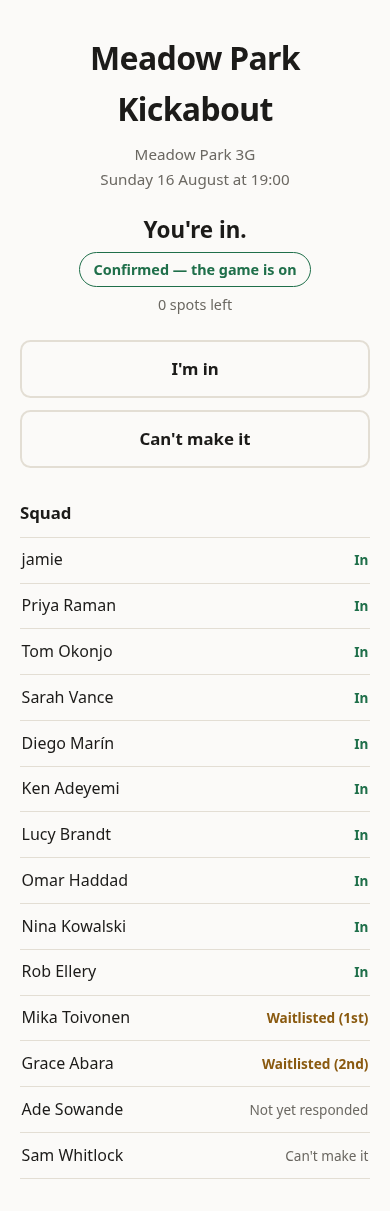
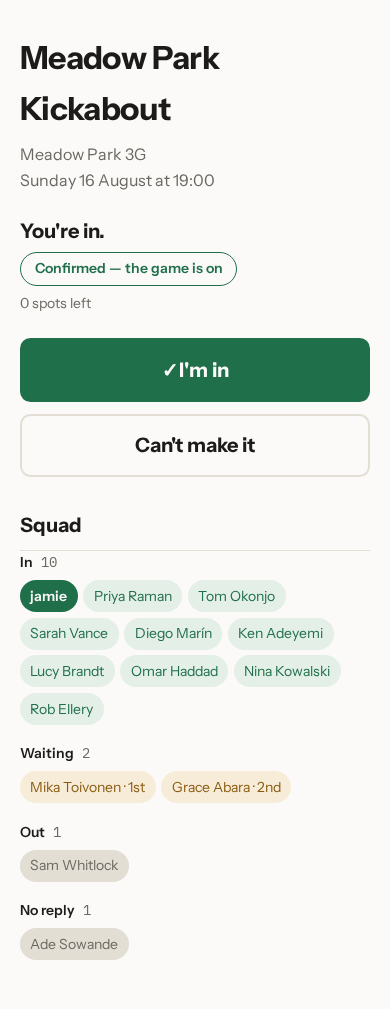
docs: re-align the guide with the M10 redesign, regenerate screenshots
The Google Fonts disclosure in docs/known-issues.md was already added by
Task 2 (confirmed accurate against src/security/csp.ts, no change needed).

Guide prose sweep for M10's nine tasks:
- Task 9 moved role/removal behind a per-member "Manage" disclosure on the
  game overview page — updated the "Who can organise" and "Taking someone
  out" sections and the squad-controls alt text in 05-running-your-squad.md.
- Task 6 replaced "Mark in"/"Mark out" with a segmented In/Out control on the
  organiser's fixture page, and dropped the separate status text except for
  waitlisted members — updated the "One fixture at a time" and "Answering for
  someone" sections and the owner-fixture alt text.
- Task 7 grouped the player-facing squad into chips by answer, with the
  viewer's own chip highlighted — rewrote "Who else is playing" and the
  waitlist description in 03-answering-a-reminder.md.
- Task 4/5 changed response buttons to show the current answer on every
  render ("I'm in · waiting" in amber when waitlisted) and added a
  pre-tap full-fixture warning — added both to 03-answering-a-reminder.md
  and 04-when-someone-drops-out.md.
- 01-setting-up-a-game.md's "buttons beside each name" became "Manage on
  each row", matching the disclosure.
- 06-calling-a-fixture-off.md needed no change: Task 8's own commit
  (bc56694) already renamed the button and updated that chapter's prose in
  the same change.

test/browser/guide-shots.ts had a stale `ul.squad` selector for the
[…]

diff --git a/test/browser/guide-shots.ts b/test/browser/guide-shots.ts
@@ -139,7 +139,12 @@ export const SHOTS: Shot[] = [
     // pattern), so this needs no game of its own.
     path: (w) => `/r/${w.inToken}`,
     persona: "anonymous",
-    element: "ul.squad",
+    // M10 §3.5 regrouped the player-facing squad into a `<div class="squad">`
+    // of chips (`src/views/fixture.ts`), replacing the `<ul class="squad">`
+    // this selector used to target — left stale by that change since @guide
+    // is excluded from the default browser run and CI, so nothing caught it
+    // until this capture run failed partway through on "element has no box".
+    element: ".squad",
   },
   {
     id: "respond-squad-hidden",
@@ -177,7 +182,7 @@ export const SHOTS: Shot[] = [
     chapter: "05-running-your-squad",
     title: "The squad",
     route: "/g/:id",
-    shows: "Each member's row, with the control to make them an organiser and to remove them.",
+    shows: "Each member's row, with a Manage disclosure that opens to the role button and the remove link.",
     path: (w) => `/g/${w.gameId}`,
     persona: "organiser",
     // The squad list, not the fixtures list below it — see `element` above.

diff --git a/docs/guide/05-running-your-squad.md b/docs/guide/05-running-your-squad.md
@@ -6,29 +6,32 @@ on the game page, or one tap from it.
 
 ## Who can organise
 
-![Each squad member's row, with a button to make them an organiser and a link to remove them](images/squad-controls.png)
+![Each squad member's row, with a Manage disclosure that opens to a role button and a remove link](images/squad-controls.png)
 
-Every person in the squad has a row with their name, a button and a link.
+Every person in the squad has a row with their name and a **Manage**
+disclosure. Open it and two things are inside: a button and a link.
 
 **Make an organiser** gives that person the same powers you have: they can
 invite people, change the game's details and take people out. Handy when you're
 away and don't want the game to depend on you having signal.
 
-Your own row is the one at the top, marked **organiser (you)**. It offers
-**Make an ordinary member** instead — that's how you step back from organising
-without leaving the squad. A game always has at least one organiser: if you are
-the only one, the app refuses to make you an ordinary member, so you cannot
-leave the game with nobody able to change anything. Make someone else an
-organiser first, and then you can step back.
+Your own row is the one at the top, marked **organiser (you)**. Open its
+**Manage** disclosure and it offers **Make an ordinary member** instead —
+that's how you step back from organising without leaving the squad. A game
+always has at least one organiser: if you are the only one, the app refuses to
+make you an ordinary member, so you cannot leave the game with nobody able to
+change anything. Make someone else an organiser first, and then you can step
+back.
 
 ## Taking someone out
 
 ![The confirmation page for removing Sam Whitlock from the squad](images/remove-member.png)
 
-**Remove** on someone's row doesn't remove them straight away. It opens a page
-that names the person and spells out exactly what will happen: Sam Whitlock
-would be taken out of the squad for the Meadow Park Kickabout and told by email,
-and because they have no upcoming fixtures, nothing else changes.
+**Remove**, inside that same **Manage** disclosure, doesn't remove them
+straight away. It opens a page that names the person and spells out exactly
+what will happen: Sam Whitlock would be taken out of the squad for the Meadow
+Park Kickabout and told by email, and because they have no upcoming fixtures,
+nothing else changes.
 
 **Remove Sam Whitlock** confirms it. **No, leave the squad as it is** backs out
 and nothing has happened.
@@ -75,16 +78,19 @@ whatever this is set to.
 Every fixture has its own page, separate from the game page above — tap its
 date under **Coming up** to open it.
 
-![Everyone's answer for one fixture, with Mark in and Mark out beside each name](images/owner-fixture.png)
+![Everyone's answer for one fixture, with an In/Out control beside each name](images/owner-fixture.png)
 
 Each row shows what the squad list already shows — in, waitlisted, out, or not
-yet responded — and, beside every name, two buttons: **Mark in** and **Mark
-out**.
+yet responded — as well as, beside every name, a segmented **In**/**Out**
+control that shows which one already applies as well as setting it. Only
+someone on the waitlist keeps a separate status label naming their place in
+line; for everyone else, the control itself is the only place their status is
+said.
 
 ## Answering for someone
 
 Not everyone answers an email. If somebody tells you in person, on the phone,
-or in the group chat, **Mark in** or **Mark out** on their row records it for
+or in the group chat, **In** or **Out** on their row records it for
 them, exactly as if they had tapped the button themselves.
 
 ![A player marked in by the organiser, with the attribution line naming who did it](images/owner-marked-in.png)

diff --git a/docs/guide/03-answering-a-reminder.md b/docs/guide/03-answering-a-reminder.md
@@ -17,9 +17,11 @@ recorded yet: the page asks **Can you make it?** and waits for you.
 
 **Confirmed — the game is on** means enough people have already said yes for
 the game to go ahead. Beside it, **0 spots left** is how many places are still
-free — none, in this one, which is what the waitlist below is about. When your
-organiser allows it, the squad list shows who has answered what, so you can
-see who you'd be playing with before you decide — more on that below.
+free — none, in this one, which is what the waitlist below is about. Because
+there's no room, the page says so before you tap anything: **The squad is
+full — answering yes puts you 3rd on the waitlist.** When your organiser
+allows it, the squad list shows who has answered what, so you can see who
+you'd be playing with before you decide — more on that below.
 
 ## Saying you're in
 
@@ -27,7 +29,8 @@ see who you'd be playing with before you decide — more on that below.
 
 Tapping a button on this page is what records your answer. Tap **I'm in**
 while there is a place free and the page comes back saying **You're in.**,
-with your name marked **In**.
+with a tick on the **I'm in** button and your own chip sitting under the
+squad's **In** heading below.
 
 That headline is how you know it worked. Close the page without tapping a
 button on it and nothing has been saved — you are not counted, and the place
@@ -40,8 +43,10 @@ tapping the other one any time before kickoff.
 
 ![The squad list on the response page, every name and answer visible](images/respond-squad-shown.png)
 
-By default, this is what you see: everyone in the squad, and what each of
-them answered.
+By default, this is what you see: everyone in the squad, grouped by what they
+answered — **In**, **Waiting**, **Out**, **No reply** — as a row of chips
+under each heading. Your own chip is filled in, so you can pick yourself out
+among the rest.
 
 ![A response page for a game with that turned off, showing a headcount and the player's own answer but no other names](images/respond-squad-hidden.png)
 
@@ -56,16 +61,19 @@ don't see who anyone else is.
 
 The Meadow Park Kickabout has room for ten. If you tap **I'm in** after the
 tenth person has, you go on the waitlist instead and the page tells you your
-position — here, second.
+position — here, second. The **I'm in** button changes to say so too: it now
+reads **I'm in · waiting**, in amber rather than the green a confirmed place
+gets, so it never looks like a place you don't have.
 
 You do not need to do anything else. If someone drops out, the person at the
 top of the waitlist is moved in automatically and emailed. Nobody else is
 told.
 
 When the squad is showing, it tells the same story from the outside: ten
-players marked **In**, then Mika Toivonen first on the waitlist and Grace
-Abara second, in the order they answered. Anyone who has not answered yet —
-Ade Sowande here — shows as **Not yet responded**.
+chips under **In**, then a **Waiting** group with Mika Toivonen and Grace
+Abara, each chip carrying its place in line — Mika's reads **· 1st**, Grace's
+**· 2nd**. Anyone who has not answered yet — Ade Sowande here — sits under
+**No reply**.
 
 ## When the teams go up
 

diff --git a/docs/guide/04-when-someone-drops-out.md b/docs/guide/04-when-someone-drops-out.md
@@ -16,7 +16,10 @@ there.
 The page then says **You said you can't make it** — that's how you know it
 worked, the same as with any answer. Sam Whitlock has answered that way here.
 Tapping **I'm in** puts you back, and there's no penalty and no message to
-write.
+write. If the squad has filled up while you were out, the page says so before
+you tap — here, **The squad is full — answering yes puts you 3rd on the
+waitlist.** — so changing your mind back to yes might land you on the waitlist
+rather than a place, and you'll know that before you tap it.
 
 Say one of the ten players marked **In** drops out. The place doesn't sit
 empty: Mika Toivonen, first on the waitlist, is moved in and gets an email

diff --git a/docs/guide/01-setting-up-a-game.md b/docs/guide/01-setting-up-a-game.md
@@ -48,7 +48,7 @@ same link as a QR code — that's chapter 2.
 
 **Squad (14)** lists everyone who has joined. This game has fourteen people in
 it, with jamie marked as the organiser — that's you, because you set it up.
-Chapter 5 covers what the buttons beside each name do.
+Chapter 5 covers what **Manage** on each row can do.
 
 **Coming up** is the part that does the work. You created the game once, and
 the fixtures for the next few weeks are already there, one a week at 19:00.
